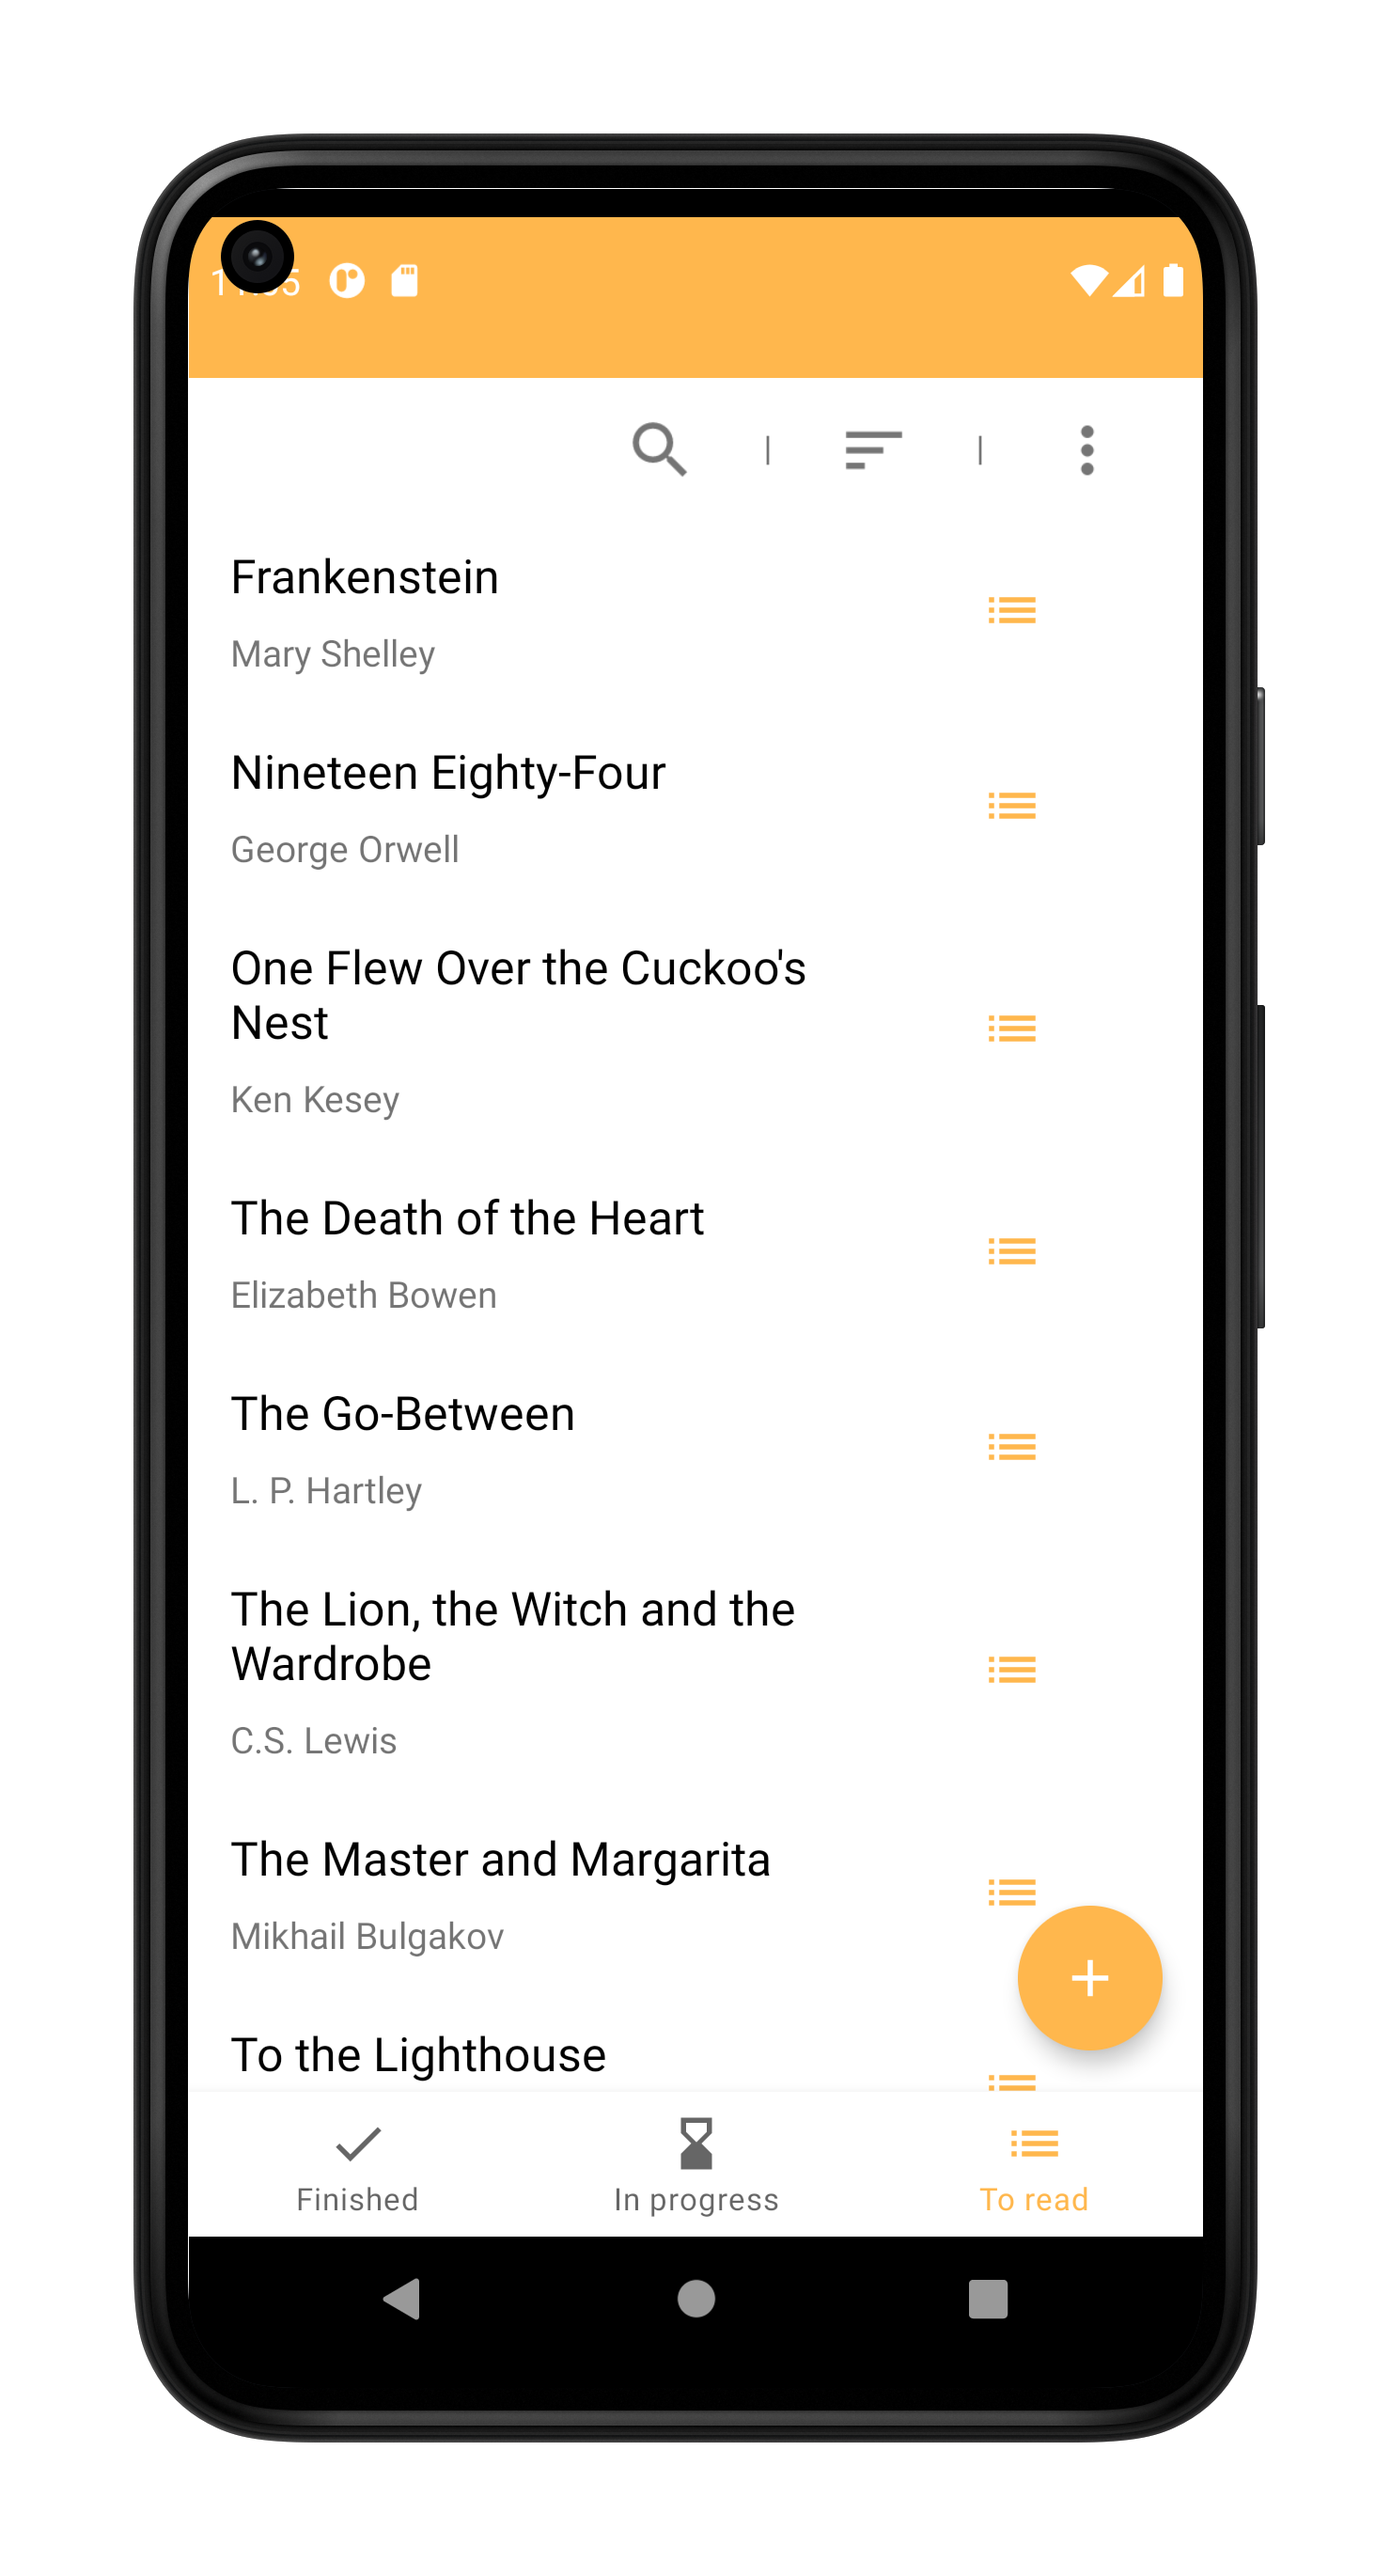
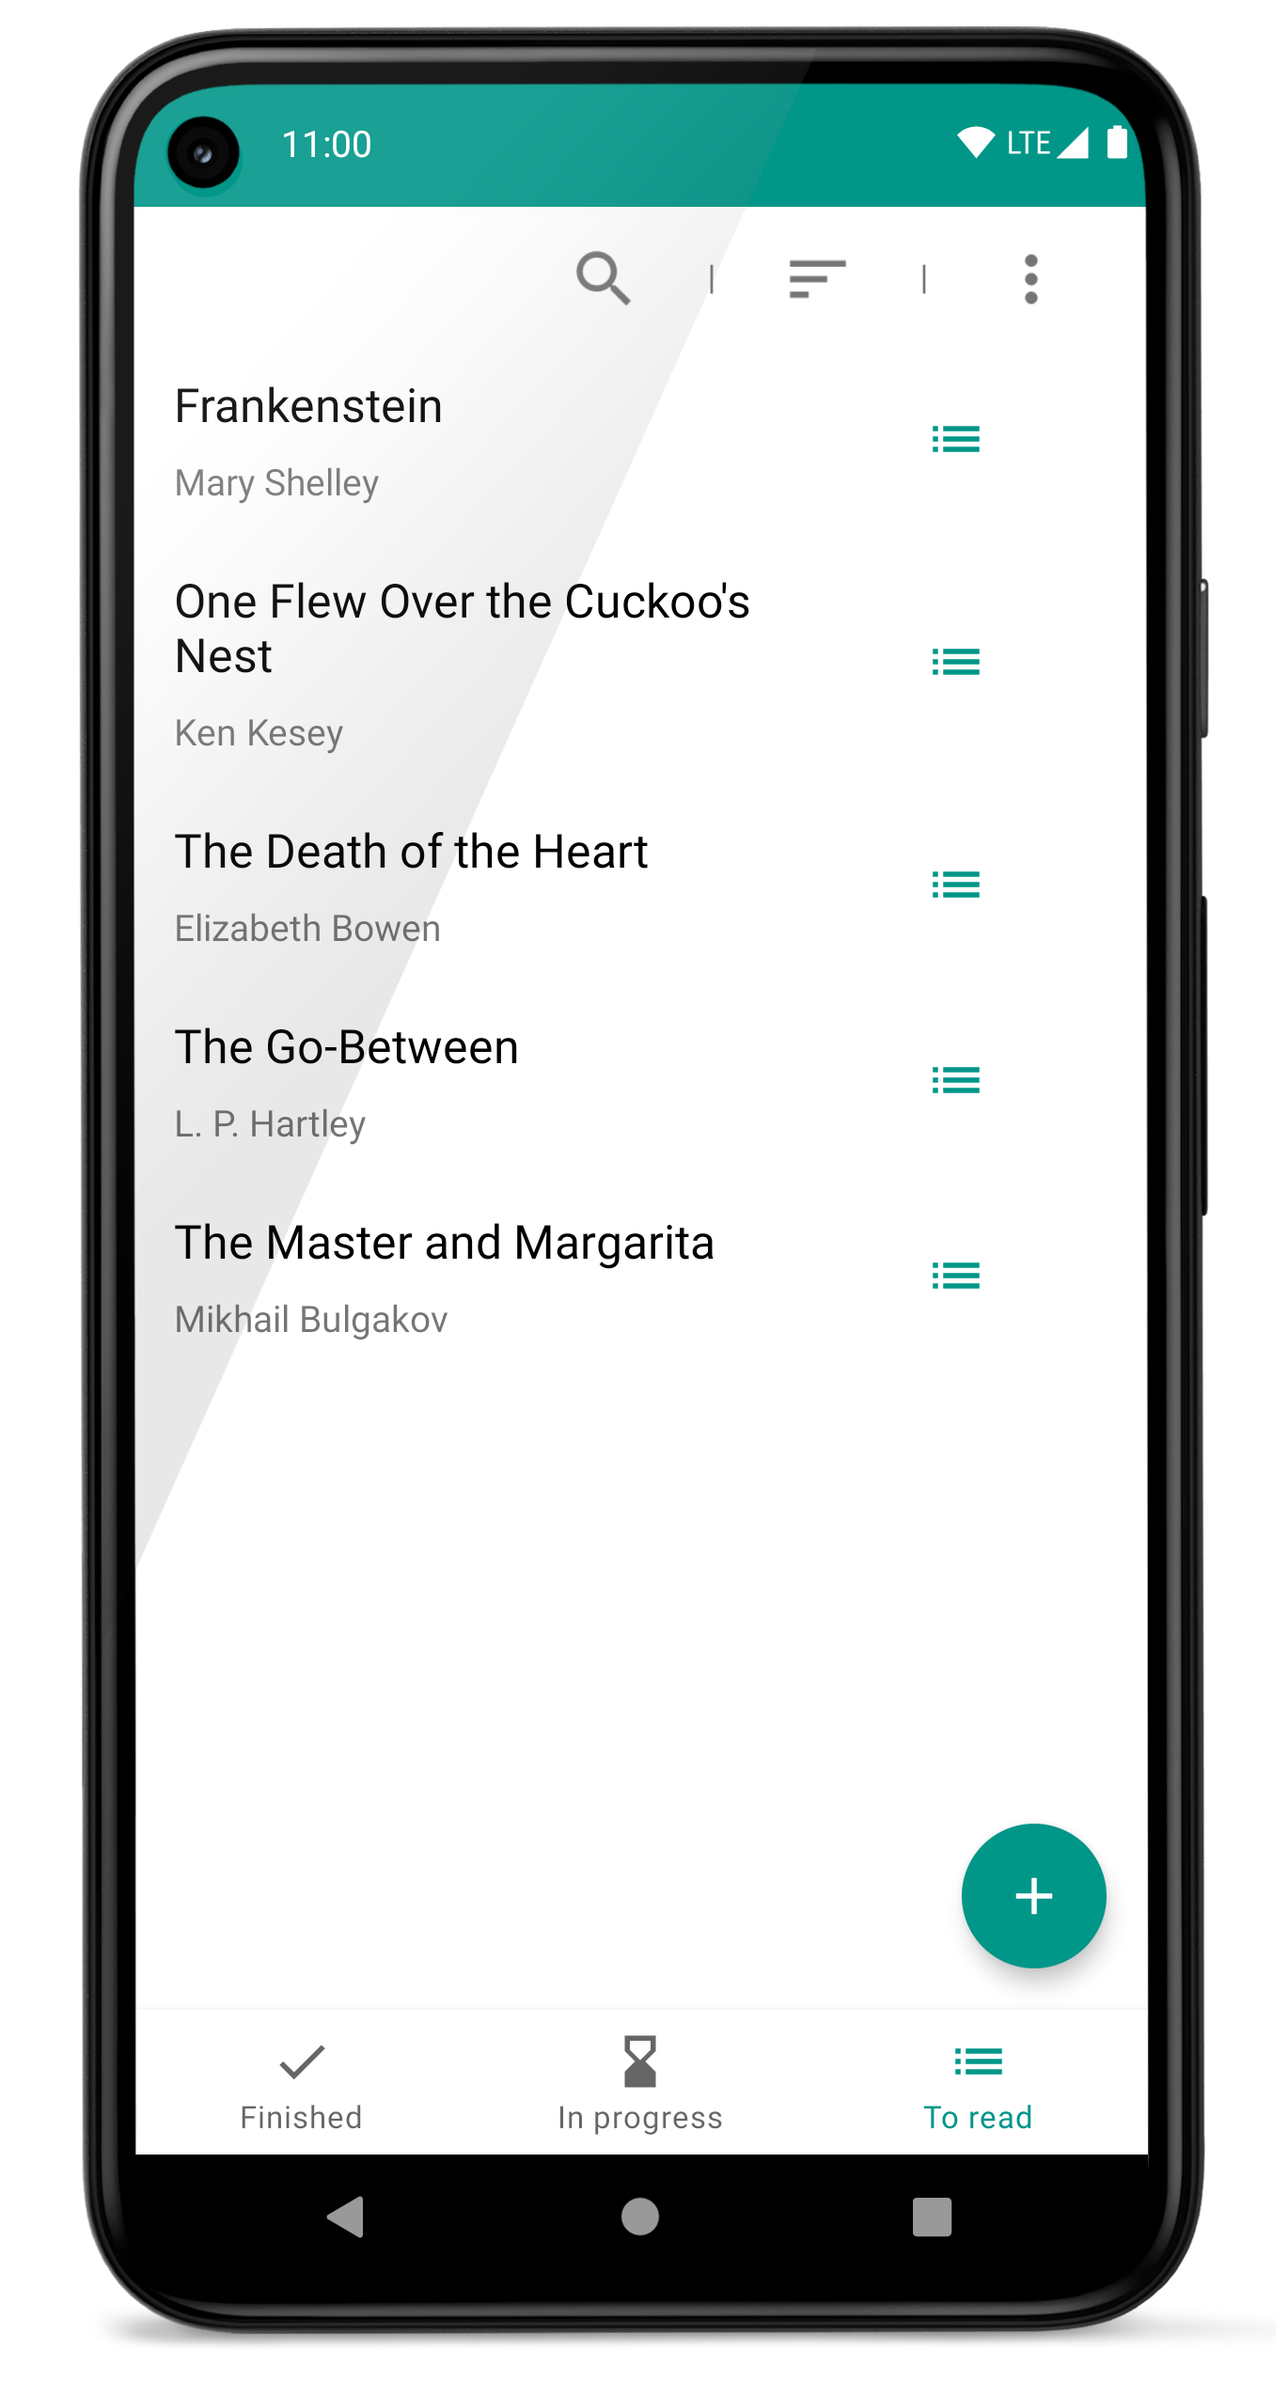
Updated readme and screenshots.

diff --git a/README.md b/README.md
@@ -1,23 +1,20 @@
-# books-tracker-android  
-
-[![Build Status](https://git-drone.mateusz.ovh/api/badges/mateusz-bak/books-tracker-android/status.svg)](https://git-drone.mateusz.ovh/mateusz-bak/books-tracker-android)
-
-An Android app written in Kotlin for keeping tracks of books you have read.
-
-## Screenshots
-<p align='center'>
-  <img src='https://raw.githubusercontent.com/mateusz-bak/books-tracker-android/master/doc/images/screenshot-add-book.png' width='25%'/>
-  <img src='https://raw.githubusercontent.com/mateusz-bak/books-tracker-android/master/doc/images/screenshot-edit-book.png' width='25%'/>
-  <img src='https://raw.githubusercontent.com/mateusz-bak/books-tracker-android/master/doc/images/screenshot-display-book.png' width='25%'/>
+# books-tracker-android   
+[![Build Status](https://git-drone.mateusz.ovh/api/badges/mateusz-bak/books-tracker-android/status.svg)](https://git-drone.mateusz.ovh/mateusz-bak/books-tracker-android)  
   
-  <img src='https://raw.githubusercontent.com/mateusz-bak/books-tracker-android/master/doc/images/screenshot-finished.png' width='25%'/>
-  <img src='https://raw.githubusercontent.com/mateusz-bak/books-tracker-android/master/doc/images/screenshot-in-progress.png' width='25%'/>  
-  <img src='https://raw.githubusercontent.com/mateusz-bak/books-tracker-android/master/doc/images/screenshot-to-read.png' width='25%'/>
+### An Android app written in Kotlin for keeping tracks of your books.  
+#### There are three lists provided so you won't get confused:  
+- books you finished,  
+- books you are currently reading,  
+- books you want to read later.
+#### Now available in 10 different color themes!  
   
-  <img src='https://raw.githubusercontent.com/mateusz-bak/books-tracker-android/master/doc/images/screenshot-search-books.png' width='25%'/>
-  <img src='https://raw.githubusercontent.com/mateusz-bak/books-tracker-android/master/doc/images/screenshot-sort-books.png' width='25%'/>
-  <img src='https://raw.githubusercontent.com/mateusz-bak/books-tracker-android/master/doc/images/screenshot-sorted-books.png' width='25%'/>
-</p>
-
-## Attributions  
-Launcher icon made by [smalllikeart](https://www.flaticon.com/authors/smalllikeart "smalllikeart") from [www.flaticon.com](https://www.flaticon.com/ "Flaticon")
+## Screenshots  
+<p align='center'>  
+ <img src='https://raw.githubusercontent.com/mateusz-bak/books-tracker-android/master/doc/images/screenshot-finished.png' width='35%'/>  
+ <img src='https://raw.githubusercontent.com/mateusz-bak/books-tracker-android/master/doc/images/screenshot-in-progress.png' width='35%'/>  
+  
+ <img src='https://raw.githubusercontent.com/mateusz-bak/books-tracker-android/master/doc/images/screenshot-to-read.png' width='35%'/>  
+ <img src='https://raw.githubusercontent.com/mateusz-bak/books-tracker-android/master/doc/images/screenshot-add-book.png' width='35%'/>  
+</p>  
+  
+## Attributions Launcher icon made by [smalllikeart](https://www.flaticon.com/authors/smalllikeart "smalllikeart") from [www.flaticon.com](https://www.flaticon.com/ "Flaticon")
